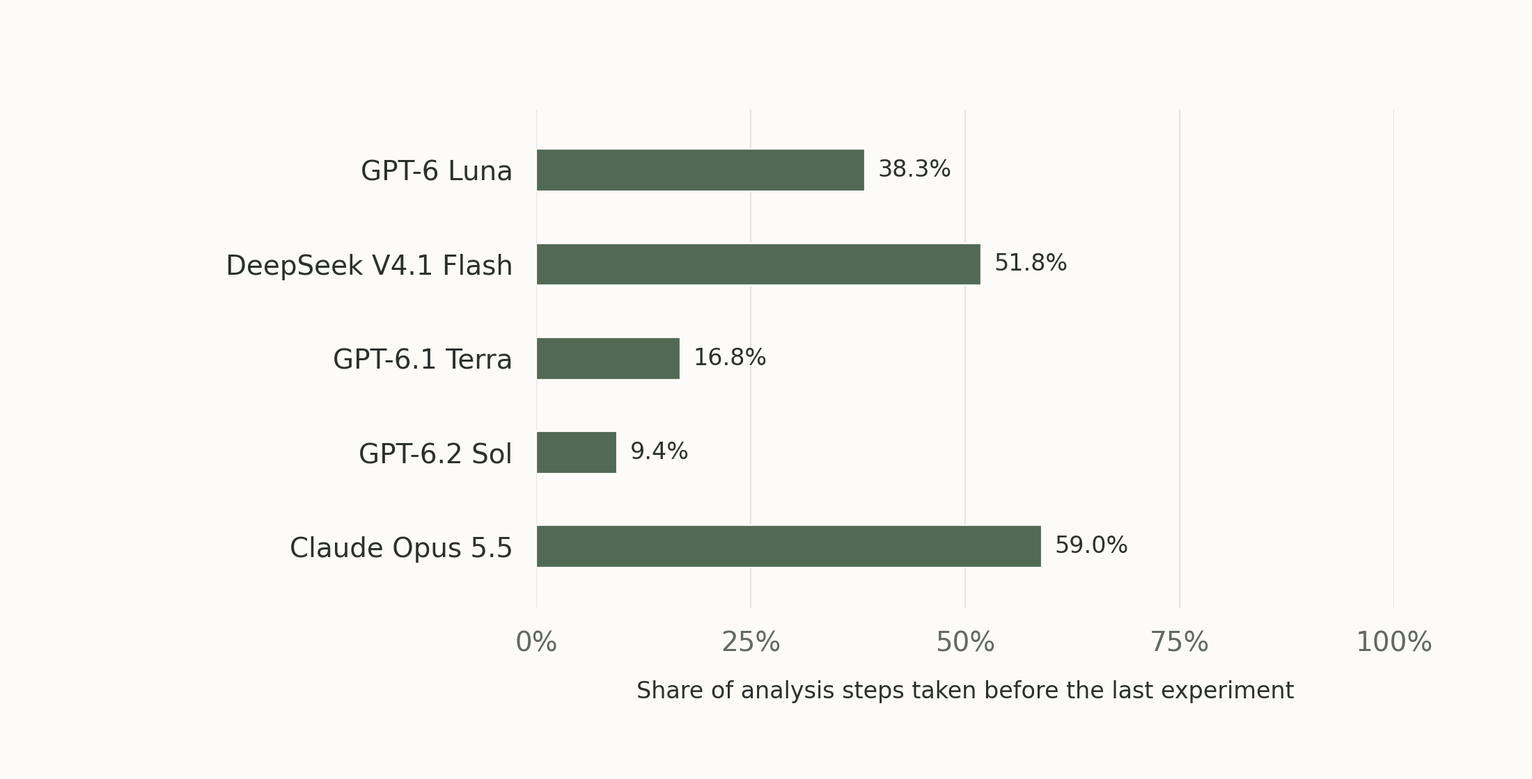
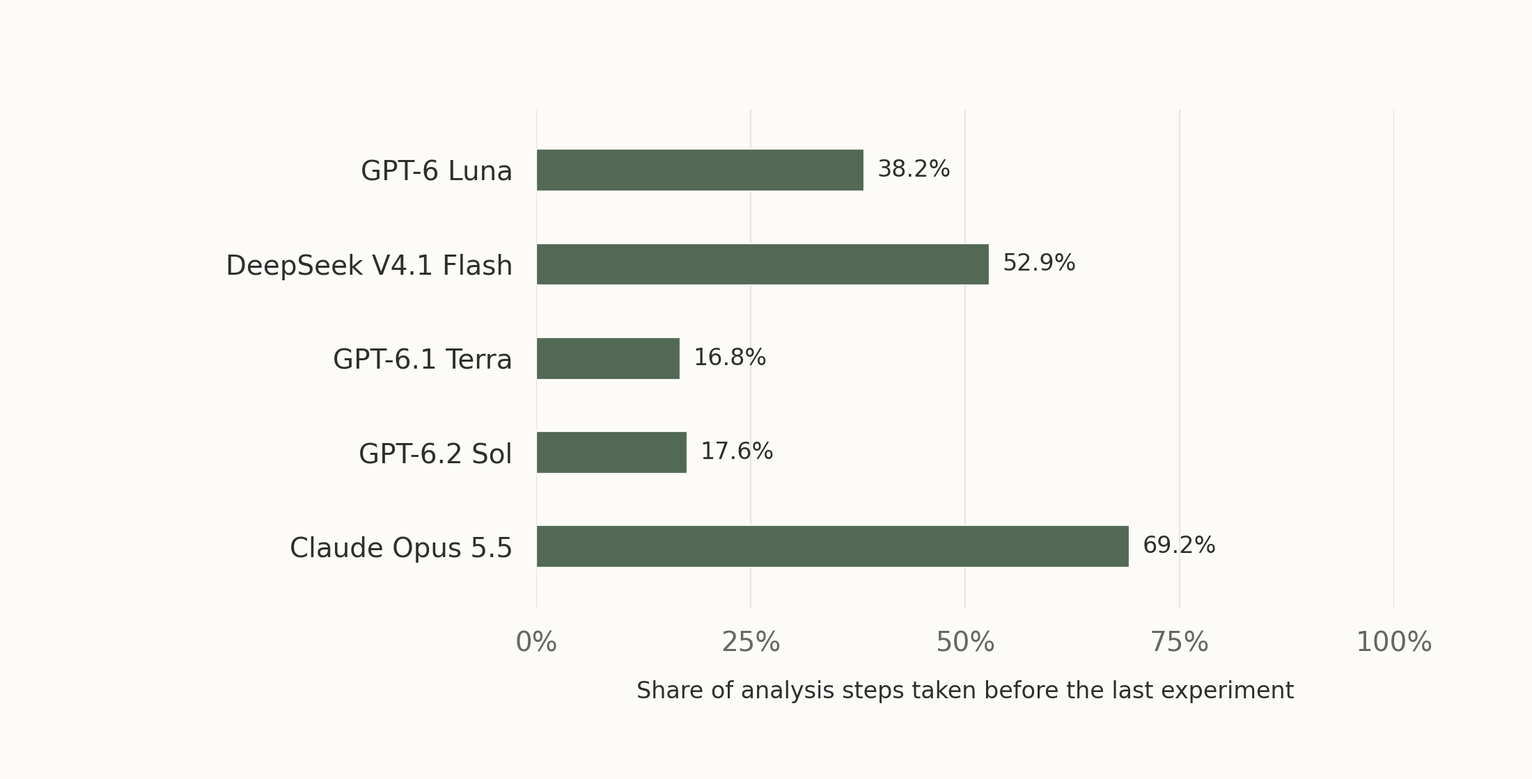
Correct the OpenQFT process figure
The first version counted an experiment only when the command was written
out, which missed experiments that GPT-6.2 Sol and Claude Opus 5.5 start
through their own scripts. Recounted: Sol 17.6% (was 9.4%), Opus 69.2%
(was 59.0%), DeepSeek 52.9% (was 51.8%). The text now says these models do
most, not nearly all, of their analysis after the last experiment.

diff --git a/projects/openqft/index.html b/projects/openqft/index.html
@@ -1,4 +1,4 @@
 <!doctype html>
 <html lang="en"><head><meta charset="utf-8"><meta name="viewport" content="width=device-width,initial-scale=1"><meta name="description" content="Some thoughts on scientific discovery, useful experience, and what it means for an agent to keep learning."><title>OpenQFT — Shuhan Wang</title><link rel="canonical" href="https://shuhan-wang1.github.io/projects/openqft/"><meta property="og:title" content="OpenQFT — Shuhan Wang"><meta property="og:description" content="Some thoughts on scientific discovery, useful experience, and what it means for an agent to keep learning."><link rel="icon" href="../../assets/favicon.svg" type="image/svg+xml"><link rel="stylesheet" href="../../styles.css"><link rel="stylesheet" href="../../project.css"><script src="../../project-data.js" defer></script><script src="../../project.js" defer></script></head>
 <body data-project-id="qft" class="research-blog"><a class="skip-link" href="#project-main" id="skip">Skip to content</a><header class="site-header"><div class="header-inner"><a class="wordmark" href="../../" aria-label="Shuhan Wang, home">sw<span class="wordmark-dot">.</span></a><a class="text-link" id="back-home" href="../../#research">All projects</a><button id="project-language" class="language-button" aria-label="Switch to Chinese">中文</button></div></header>
-<main id="project-main" class="project-document container"><header class="project-hero"><p class="eyebrow" id="page-kicker">OPENQFT / RESEARCH JOURNAL</p><h1 id="page-title">Learning to discover. Learning from discovery.</h1><p id="page-summary">Some thoughts on scientific discovery, useful experience, and what it means for an agent to keep learning.</p><div class="project-resources"></div></header><div class="project-layout"><aside><nav class="project-toc" aria-label="On this page"><span id="toc-label">On this page</span><a href="#section-0">What should an agent learn from discovery?</a><a href="#section-1">An intuition from the history of science</a><a href="#section-2">A snapshot across models</a><a href="#section-3">Collecting evidence is only part of the work</a><a href="#section-4">Models investigate in different ways</a><a href="#section-5">When experience helps—and when it gets in the way</a><a href="#section-6">The question I want to keep asking</a><a href="#section-7">A research note, while the work develops</a></nav></aside><article class="project-article"><div id="project-sections"><section id="section-0" class="project-section"><h2>What should an agent learn from discovery?</h2><div class="section-prose"><p>I keep coming back to two questions. Can an agent work out something unfamiliar by choosing its own experiments? And when it encounters a new problem, does the earlier investigation make it a better learner?</p><p>OpenQFT grew out of wanting to study these questions together. A successful investigation is interesting in its own right. I am even more interested in what survives it: a useful idea, a better question, or a habit of checking an explanation before trusting it.</p></div></section><section id="section-1" class="project-section"><h2>An intuition from the history of science</h2><div class="section-prose"><p>One inspiration is the history of particle physics. Observations arrived before a complete explanation. Researchers had to look for regularities, ask what those regularities implied, and decide which observation might change the picture. An explanation earned its value by helping them anticipate something they had not yet seen.</p><p>What interests me is this movement between evidence and explanation. Each discovery changes the questions that become worth asking. Experience can do more than supply another answer; it can change how the next investigation begins.</p></div></section><section id="section-2" class="project-section"><h2>A snapshot across models</h2><div class="section-prose"><p>The snapshot now covers five models: GPT-6 Luna (gpt-6-luna), DeepSeek V4.1 Flash (deepseek-flash), GPT-6.1 Terra (gpt-6.1-terra), GPT-6.2 Sol (gpt-6.2-sol) and Claude Opus 5.5 (claude-opus-5-5). All scores are expressed as a percentage of the theoretical maximum: a perfect score is 100%.</p><p>The initial evaluation is twice as large as in the earlier version of this note, and every model was evaluated on the same set, so these numbers replace the earlier ones. Complete and Partial describe study coverage, not task success. The experience study is complete for the first four models. Claude Opus 5.5 has initial-evaluation results only.</p><p>The table separates initial evaluation from the experience comparison. They use different evaluation subsets, so a change between these columns should not be read as an improvement over time. The averages also hide how much single investigations by one model differ. Claude Opus 5.5 has the highest average here, yet its lead over GPT-6.2 Sol is within that spread, and its own investigations fall into two groups: some reach much of the explanation and some reach little. These are descriptive snapshots, rather than a definitive ranking.</p></div></section><div class="results-table-wrap" tabindex="0" role="region" aria-label="Model results"><table class="model-results"><caption>Results snapshot · theoretical maximum = 100%</caption><thead><tr><th scope="col">Model</th><th scope="col">Study coverage</th><th scope="col">Initial evaluation</th><th scope="col">Without experience</th><th scope="col">With experience</th></tr></thead><tbody><tr><th scope="row">GPT-6 Luna<code>gpt-6-luna</code></th><td data-study-status="complete">Complete</td><td>1.0%</td><td>0.5%</td><td>1.4%</td></tr><tr><th scope="row">DeepSeek V4.1 Flash<code>deepseek-flash</code></th><td data-study-status="complete">Complete</td><td>12.4%</td><td>6.5%</td><td>10.0%</td></tr><tr><th scope="row">GPT-6.1 Terra<code>gpt-6.1-terra</code></th><td data-study-status="complete">Complete</td><td>26.5%</td><td>30.4%</td><td>37.9%</td></tr><tr><th scope="row">GPT-6.2 Sol<code>gpt-6.2-sol</code></th><td data-study-status="complete">Complete</td><td>31.3%</td><td>35.5%</td><td>51.6%</td></tr><tr><th scope="row">Claude Opus 5.5<code>claude-opus-5-5</code></th><td data-study-status="partial">Partial</td><td>44.5%</td><td data-score-missing>Not available</td><td data-score-missing>Not available</td></tr></tbody></table></div><figure class="blog-figure" data-blog-figure="0"><a class="figure-zoom" href="../../assets/openqft/model-discovery.png" target="_blank" rel="noopener noreferrer"><img src="../../assets/openqft/model-discovery.png" alt="Initial evaluation: GPT-6 Luna 1.0%, DeepSeek V4.1 Flash 12.4%, GPT-6.1 Terra 26.5%, GPT-6.2 Sol 31.3%, Claude Opus 5.5 44.5%. The theoretical maximum is 100%. Claude Opus 5.5 is marked Partial for overall study coverage." width="2200" height="1120" loading="lazy"></a><figcaption>Initial-evaluation means, as a percentage of the theoretical maximum (100%). All five models were evaluated on the same set. Complete/Partial denotes coverage of the broader study; the partial study uses a hatched bar. This snapshot does not establish a definitive model ranking.</figcaption></figure><section id="section-3" class="project-section"><h2>Collecting evidence is only part of the work</h2><div class="section-prose"><p>Choosing an experiment and making sense of its outcome are different abilities. An agent can collect observations while still missing a useful explanation. It can also settle on a plausible story too early and keep gathering evidence that fits it.</p><p>The comparison below places each model alongside a diagnostic reference analysis that works from that model&#x27;s own observations. The reference also receives additional information, so the gap does not isolate a reasoning deficit. Still, the pattern is the same for all five models: the observations a model collected would have supported much more than the model concluded from them. It is a prompt to ask which parts of an investigation need help, rather than a claim that every answer was already available to the agent.</p></div></section><figure class="blog-figure" data-blog-figure="1"><a class="figure-zoom" href="../../assets/openqft/model-evidence.png" target="_blank" rel="noopener noreferrer"><img src="../../assets/openqft/model-evidence.png" alt="Selected diagnostic measure, model against a reference analysis of the same observations with extra information: GPT-6 Luna 0.1% against 50.2%; DeepSeek V4.1 Flash 2.6% against 53.6%; GPT-6.1 Terra 8.9% against 63.2%; GPT-6.2 Sol 16.5% against 66.1%; Claude Opus 5.5 31.1% against 67.7%. The maximum is 100%." width="2200" height="1480" loading="lazy"></a><figcaption>Selected diagnostic measure for each model, with its maximum marked at 100%. The reference analyses the same observations the model collected and has additional information; this is not an equal-information baseline. This measure differs from the overall score in the other figures. Mechanism details remain private.</figcaption></figure><section id="section-4" class="project-section"><h2>Models investigate in different ways</h2><div class="section-prose"><p>The models also differ in how they work, apart from how well they score. One difference is when the thinking happens. GPT-6.2 Sol and GPT-6.1 Terra tend to run their experiments in a few large batches and do nearly all of their analysis after the last one, when nothing they work out can change what they try. Claude Opus 5.5 alternates: more than half of its analysis happens while it can still choose another experiment, and it varies the conditions of its experiments more widely.</p><p>The figure shows this as the share of analysis steps taken before the last experiment. A higher share is not a score: GPT-6 Luna and DeepSeek V4.1 Flash also analyse between experiments and score lowest, so alternating does not make an investigation succeed by itself. What I take from it is that the way an agent investigates can be measured alongside its result, and that an explanation worked out after the last experiment can no longer be tested by one.</p></div></section><figure class="blog-figure" data-blog-figure="2"><a class="figure-zoom" href="../../assets/openqft/model-process.png" target="_blank" rel="noopener noreferrer"><img src="../../assets/openqft/model-process.png" alt="Share of analysis steps taken before the last experiment: GPT-6 Luna 38.3%, DeepSeek V4.1 Flash 51.8%, GPT-6.1 Terra 16.8%, GPT-6.2 Sol 9.4%, Claude Opus 5.5 59.0%." width="2200" height="1120" loading="lazy"></a><figcaption>When the thinking happens: of the steps a model spends on analysis, the share taken before its last experiment, averaged over investigations that start with no earlier experience. This describes how a model works; it is not a score.</figcaption></figure><section id="section-5" class="project-section"><h2>When experience helps—and when it gets in the way</h2><div class="section-prose"><p>A later investigation need not begin from an empty page. In the comparison below, each model meets the same problems without and with notes from its own earlier investigations. The benefit grows with what a model can discover in the first place: GPT-6 Luna, which discovers little, gains little, and GPT-6.2 Sol gains the most.</p><p>What experience changes differs from model to model. With its notes, GPT-6.2 Sol runs different experiments: fewer of them, with the conditions varied more widely. GPT-6.1 Terra runs much the same experiments as before and changes what it concludes from them. In the cases I have so far, the notes also help with kinds of rule that the earlier investigations had not contained, which suggests that what carries over is mostly a way of working, more than a list of facts.</p><p>But useful memory needs judgement. A good explanation can guide a new experiment; an untested assumption can guide it in the wrong direction, and I see both. I want to understand how an agent can carry forward what it has learnt while staying willing to revise it. Claude Opus 5.5 has no experience comparison to show yet. These descriptive means do not imply that memory helps every investigation.</p></div></section><figure class="blog-figure" data-blog-figure="3"><a class="figure-zoom" href="../../assets/openqft/model-experience.png" target="_blank" rel="noopener noreferrer"><img src="../../assets/openqft/model-experience.png" alt="Without/with accumulated experience: GPT-6 Luna 0.5%/1.4%, DeepSeek V4.1 Flash 6.5%/10.0%, GPT-6.1 Terra 30.4%/37.9%, GPT-6.2 Sol 35.5%/51.6%. Perfect score is 100%. Claude Opus 5.5 has no experience comparison." width="2200" height="1280" loading="lazy"></a><figcaption>Experience comparison: descriptive means from matched comparisons on the same problems, with 100% marking the theoretical maximum. All four studies shown are complete. No Claude Opus 5.5 experience result is available. These means do not establish a universal memory benefit.</figcaption></figure><section id="section-6" class="project-section"><h2>The question I want to keep asking</h2><div class="section-prose"><p>For me, the exciting possibility is an agent whose experience improves the way it investigates. It notices when an explanation stops working, asks a more revealing question, and brings a useful idea to an unfamiliar problem.</p><p>That connects scientific discovery to continual learning: progress in one investigation becomes part of how the next one is approached. OpenQFT is where I am exploring that connection.</p></div></section><section id="section-7" class="project-section"><h2>A research note, while the work develops</h2><div class="section-prose"><p>This is an intuition-led preview of independent, unpublished research. Figures show selected descriptive means, with 100% marking the theoretical maximum for the measure in each figure. The diagnostic measure, the process measure and the overall evaluation score are different measures, and the process measure is not a score. Study coverage is marked explicitly. Experimental mechanisms and the full paper remain private while the work develops.</p></div></section></div><p class="project-updated" id="updated">Updated November 2026</p></article></div><nav class="related-projects" aria-label="Other projects"><h2 id="related-title">Explore other projects</h2><a href="../diagnosing-world-models/" data-related="wm">Diagnosing World Models</a><a href="../climb/" data-related="climb">CLIMB</a><a href="../temporal-routing/" data-related="temporal">Temporal Routing</a><a href="../swe-router/" data-related="swe">SWE-Router</a><a href="../ropeband/" data-related="rope">RopeBand</a><a href="../rentcompass/" data-related="rent">RentCompass</a></nav></main><footer class="site-footer container"><a href="../../">Shuhan Wang / 王书涵</a><a href="mailto:jackwsh@outlook.com">jackwsh@outlook.com</a></footer></body></html>
+<main id="project-main" class="project-document container"><header class="project-hero"><p class="eyebrow" id="page-kicker">OPENQFT / RESEARCH JOURNAL</p><h1 id="page-title">Learning to discover. Learning from discovery.</h1><p id="page-summary">Some thoughts on scientific discovery, useful experience, and what it means for an agent to keep learning.</p><div class="project-resources"></div></header><div class="project-layout"><aside><nav class="project-toc" aria-label="On this page"><span id="toc-label">On this page</span><a href="#section-0">What should an agent learn from discovery?</a><a href="#section-1">An intuition from the history of science</a><a href="#section-2">A snapshot across models</a><a href="#section-3">Collecting evidence is only part of the work</a><a href="#section-4">Models investigate in different ways</a><a href="#section-5">When experience helps—and when it gets in the way</a><a href="#section-6">The question I want to keep asking</a><a href="#section-7">A research note, while the work develops</a></nav></aside><article class="project-article"><div id="project-sections"><section id="section-0" class="project-section"><h2>What should an agent learn from discovery?</h2><div class="section-prose"><p>I keep coming back to two questions. Can an agent work out something unfamiliar by choosing its own experiments? And when it encounters a new problem, does the earlier investigation make it a better learner?</p><p>OpenQFT grew out of wanting to study these questions together. A successful investigation is interesting in its own right. I am even more interested in what survives it: a useful idea, a better question, or a habit of checking an explanation before trusting it.</p></div></section><section id="section-1" class="project-section"><h2>An intuition from the history of science</h2><div class="section-prose"><p>One inspiration is the history of particle physics. Observations arrived before a complete explanation. Researchers had to look for regularities, ask what those regularities implied, and decide which observation might change the picture. An explanation earned its value by helping them anticipate something they had not yet seen.</p><p>What interests me is this movement between evidence and explanation. Each discovery changes the questions that become worth asking. Experience can do more than supply another answer; it can change how the next investigation begins.</p></div></section><section id="section-2" class="project-section"><h2>A snapshot across models</h2><div class="section-prose"><p>The snapshot now covers five models: GPT-6 Luna (gpt-6-luna), DeepSeek V4.1 Flash (deepseek-flash), GPT-6.1 Terra (gpt-6.1-terra), GPT-6.2 Sol (gpt-6.2-sol) and Claude Opus 5.5 (claude-opus-5-5). All scores are expressed as a percentage of the theoretical maximum: a perfect score is 100%.</p><p>The initial evaluation is twice as large as in the earlier version of this note, and every model was evaluated on the same set, so these numbers replace the earlier ones. Complete and Partial describe study coverage, not task success. The experience study is complete for the first four models. Claude Opus 5.5 has initial-evaluation results only.</p><p>The table separates initial evaluation from the experience comparison. They use different evaluation subsets, so a change between these columns should not be read as an improvement over time. The averages also hide how much single investigations by one model differ. Claude Opus 5.5 has the highest average here, yet its lead over GPT-6.2 Sol is within that spread, and its own investigations fall into two groups: some reach much of the explanation and some reach little. These are descriptive snapshots, rather than a definitive ranking.</p></div></section><div class="results-table-wrap" tabindex="0" role="region" aria-label="Model results"><table class="model-results"><caption>Results snapshot · theoretical maximum = 100%</caption><thead><tr><th scope="col">Model</th><th scope="col">Study coverage</th><th scope="col">Initial evaluation</th><th scope="col">Without experience</th><th scope="col">With experience</th></tr></thead><tbody><tr><th scope="row">GPT-6 Luna<code>gpt-6-luna</code></th><td data-study-status="complete">Complete</td><td>1.0%</td><td>0.5%</td><td>1.4%</td></tr><tr><th scope="row">DeepSeek V4.1 Flash<code>deepseek-flash</code></th><td data-study-status="complete">Complete</td><td>12.4%</td><td>6.5%</td><td>10.0%</td></tr><tr><th scope="row">GPT-6.1 Terra<code>gpt-6.1-terra</code></th><td data-study-status="complete">Complete</td><td>26.5%</td><td>30.4%</td><td>37.9%</td></tr><tr><th scope="row">GPT-6.2 Sol<code>gpt-6.2-sol</code></th><td data-study-status="complete">Complete</td><td>31.3%</td><td>35.5%</td><td>51.6%</td></tr><tr><th scope="row">Claude Opus 5.5<code>claude-opus-5-5</code></th><td data-study-status="partial">Partial</td><td>44.5%</td><td data-score-missing>Not available</td><td data-score-missing>Not available</td></tr></tbody></table></div><figure class="blog-figure" data-blog-figure="0"><a class="figure-zoom" href="../../assets/openqft/model-discovery.png" target="_blank" rel="noopener noreferrer"><img src="../../assets/openqft/model-discovery.png" alt="Initial evaluation: GPT-6 Luna 1.0%, DeepSeek V4.1 Flash 12.4%, GPT-6.1 Terra 26.5%, GPT-6.2 Sol 31.3%, Claude Opus 5.5 44.5%. The theoretical maximum is 100%. Claude Opus 5.5 is marked Partial for overall study coverage." width="2200" height="1120" loading="lazy"></a><figcaption>Initial-evaluation means, as a percentage of the theoretical maximum (100%). All five models were evaluated on the same set. Complete/Partial denotes coverage of the broader study; the partial study uses a hatched bar. This snapshot does not establish a definitive model ranking.</figcaption></figure><section id="section-3" class="project-section"><h2>Collecting evidence is only part of the work</h2><div class="section-prose"><p>Choosing an experiment and making sense of its outcome are different abilities. An agent can collect observations while still missing a useful explanation. It can also settle on a plausible story too early and keep gathering evidence that fits it.</p><p>The comparison below places each model alongside a diagnostic reference analysis that works from that model&#x27;s own observations. The reference also receives additional information, so the gap does not isolate a reasoning deficit. Still, the pattern is the same for all five models: the observations a model collected would have supported much more than the model concluded from them. It is a prompt to ask which parts of an investigation need help, rather than a claim that every answer was already available to the agent.</p></div></section><figure class="blog-figure" data-blog-figure="1"><a class="figure-zoom" href="../../assets/openqft/model-evidence.png" target="_blank" rel="noopener noreferrer"><img src="../../assets/openqft/model-evidence.png" alt="Selected diagnostic measure, model against a reference analysis of the same observations with extra information: GPT-6 Luna 0.1% against 50.2%; DeepSeek V4.1 Flash 2.6% against 53.6%; GPT-6.1 Terra 8.9% against 63.2%; GPT-6.2 Sol 16.5% against 66.1%; Claude Opus 5.5 31.1% against 67.7%. The maximum is 100%." width="2200" height="1480" loading="lazy"></a><figcaption>Selected diagnostic measure for each model, with its maximum marked at 100%. The reference analyses the same observations the model collected and has additional information; this is not an equal-information baseline. This measure differs from the overall score in the other figures. Mechanism details remain private.</figcaption></figure><section id="section-4" class="project-section"><h2>Models investigate in different ways</h2><div class="section-prose"><p>The models also differ in how they work, apart from how well they score. One difference is when the thinking happens. GPT-6.2 Sol and GPT-6.1 Terra tend to run their experiments in a few large batches and do most of their analysis after the last one, when nothing they work out can change what they try. Claude Opus 5.5 alternates: more than half of its analysis happens while it can still choose another experiment, and it varies the conditions of its experiments more widely.</p><p>The figure shows this as the share of analysis steps taken before the last experiment. A higher share is not a score: GPT-6 Luna and DeepSeek V4.1 Flash also analyse between experiments and score lowest, so alternating does not make an investigation succeed by itself. What I take from it is that the way an agent investigates can be measured alongside its result, and that an explanation worked out after the last experiment can no longer be tested by one.</p></div></section><figure class="blog-figure" data-blog-figure="2"><a class="figure-zoom" href="../../assets/openqft/model-process.png" target="_blank" rel="noopener noreferrer"><img src="../../assets/openqft/model-process.png" alt="Share of analysis steps taken before the last experiment: GPT-6 Luna 38.2%, DeepSeek V4.1 Flash 52.9%, GPT-6.1 Terra 16.8%, GPT-6.2 Sol 17.6%, Claude Opus 5.5 69.2%." width="2200" height="1120" loading="lazy"></a><figcaption>When the thinking happens: of the steps a model spends on analysis, the share taken before its last experiment, averaged over investigations that start with no earlier experience. This describes how a model works; it is not a score.</figcaption></figure><section id="section-5" class="project-section"><h2>When experience helps—and when it gets in the way</h2><div class="section-prose"><p>A later investigation need not begin from an empty page. In the comparison below, each model meets the same problems without and with notes from its own earlier investigations. The benefit grows with what a model can discover in the first place: GPT-6 Luna, which discovers little, gains little, and GPT-6.2 Sol gains the most.</p><p>What experience changes differs from model to model. With its notes, GPT-6.2 Sol runs different experiments: fewer of them, with the conditions varied more widely. GPT-6.1 Terra runs much the same experiments as before and changes what it concludes from them. In the cases I have so far, the notes also help with kinds of rule that the earlier investigations had not contained, which suggests that what carries over is mostly a way of working, more than a list of facts.</p><p>But useful memory needs judgement. A good explanation can guide a new experiment; an untested assumption can guide it in the wrong direction, and I see both. I want to understand how an agent can carry forward what it has learnt while staying willing to revise it. Claude Opus 5.5 has no experience comparison to show yet. These descriptive means do not imply that memory helps every investigation.</p></div></section><figure class="blog-figure" data-blog-figure="3"><a class="figure-zoom" href="../../assets/openqft/model-experience.png" target="_blank" rel="noopener noreferrer"><img src="../../assets/openqft/model-experience.png" alt="Without/with accumulated experience: GPT-6 Luna 0.5%/1.4%, DeepSeek V4.1 Flash 6.5%/10.0%, GPT-6.1 Terra 30.4%/37.9%, GPT-6.2 Sol 35.5%/51.6%. Perfect score is 100%. Claude Opus 5.5 has no experience comparison." width="2200" height="1280" loading="lazy"></a><figcaption>Experience comparison: descriptive means from matched comparisons on the same problems, with 100% marking the theoretical maximum. All four studies shown are complete. No Claude Opus 5.5 experience result is available. These means do not establish a universal memory benefit.</figcaption></figure><section id="section-6" class="project-section"><h2>The question I want to keep asking</h2><div class="section-prose"><p>For me, the exciting possibility is an agent whose experience improves the way it investigates. It notices when an explanation stops working, asks a more revealing question, and brings a useful idea to an unfamiliar problem.</p><p>That connects scientific discovery to continual learning: progress in one investigation becomes part of how the next one is approached. OpenQFT is where I am exploring that connection.</p></div></section><section id="section-7" class="project-section"><h2>A research note, while the work develops</h2><div class="section-prose"><p>This is an intuition-led preview of independent, unpublished research. Figures show selected descriptive means, with 100% marking the theoretical maximum for the measure in each figure. The diagnostic measure, the process measure and the overall evaluation score are different measures, and the process measure is not a score. Study coverage is marked explicitly. Experimental mechanisms and the full paper remain private while the work develops.</p></div></section></div><p class="project-updated" id="updated">Updated November 2026</p></article></div><nav class="related-projects" aria-label="Other projects"><h2 id="related-title">Explore other projects</h2><a href="../diagnosing-world-models/" data-related="wm">Diagnosing World Models</a><a href="../climb/" data-related="climb">CLIMB</a><a href="../temporal-routing/" data-related="temporal">Temporal Routing</a><a href="../swe-router/" data-related="swe">SWE-Router</a><a href="../ropeband/" data-related="rope">RopeBand</a><a href="../rentcompass/" data-related="rent">RentCompass</a></nav></main><footer class="site-footer container"><a href="../../">Shuhan Wang / 王书涵</a><a href="mailto:jackwsh@outlook.com">jackwsh@outlook.com</a></footer></body></html>

diff --git a/project-data.js b/project-data.js
@@ -341,7 +341,7 @@ window.PROJECT_DATA = {
         ],
         [
           "Models investigate in different ways",
-          "The models also differ in how they work, apart from how well they score. One difference is when the thinking happens. GPT-6.2 Sol and GPT-6.1 Terra tend to run their experiments in a few large batches and do nearly all of their analysis after the last one, when nothing they work out can change what they try. Claude Opus 5.5 alternates: more than half of its analysis happens while it can still choose another experiment, and it varies the conditions of its experiments more widely.\n\nThe figure shows this as the share of analysis steps taken before the last experiment. A higher share is not a score: GPT-6 Luna and DeepSeek V4.1 Flash also analyse between experiments and score lowest, so alternating does not make an investigation succeed by itself. What I take from it is that the way an agent investigates can be measured alongside its result, and that an explanation worked out after the last experiment can no longer be tested by one."
+          "The models also differ in how they work, apart from how well they score. One difference is when the thinking happens. GPT-6.2 Sol and GPT-6.1 Terra tend to run their experiments in a few large batches and do most of their analysis after the last one, when nothing they work out can change what they try. Claude Opus 5.5 alternates: more than half of its analysis happens while it can still choose another experiment, and it varies the conditions of its experiments more widely.\n\nThe figure shows this as the share of analysis steps taken before the last experiment. A higher share is not a score: GPT-6 Luna and DeepSeek V4.1 Flash also analyse between experiments and score lowest, so alternating does not make an investigation succeed by itself. What I take from it is that the way an agent investigates can be measured alongside its result, and that an explanation worked out after the last experiment can no longer be tested by one."
         ],
         [
           "When experience helps—and when it gets in the way",
@@ -380,7 +380,7 @@ window.PROJECT_DATA = {
         ],
         [
           "模型的探索方式各不相同",
-          "除了分数高低，模型的工作方式也不一样。一个差别在于思考发生在什么时候。GPT-6.2 Sol 和 GPT-6.1 Terra 倾向于把实验分成几大批做完，几乎所有分析都放在最后一次实验之后，这时无论想明白什么，都已经无法改变要做的实验。Claude Opus 5.5 则是交替进行：它一半以上的分析发生在还能再选一个实验的时候，实验条件也变化得更多。\n\n下图用“最后一次实验之前完成的分析步骤占比”来表示这一点。占比高并不等于分数高：GPT-6 Luna 和 DeepSeek V4.1 Flash 同样会在实验之间做分析，分数却最低，可见光靠交替并不能让探索成功。我从中看到的是：智能体的探索方式可以和结果一起被测量；而在最后一次实验之后才想出的解释，已经没有实验可以检验它了。"
+          "除了分数高低，模型的工作方式也不一样。一个差别在于思考发生在什么时候。GPT-6.2 Sol 和 GPT-6.1 Terra 倾向于把实验分成几大批做完，大部分分析都放在最后一次实验之后，这时无论想明白什么，都已经无法改变要做的实验。Claude Opus 5.5 则是交替进行：它一半以上的分析发生在还能再选一个实验的时候，实验条件也变化得更多。\n\n下图用“最后一次实验之前完成的分析步骤占比”来表示这一点。占比高并不等于分数高：GPT-6 Luna 和 DeepSeek V4.1 Flash 同样会在实验之间做分析，分数却最低，可见光靠交替并不能让探索成功。我从中看到的是：智能体的探索方式可以和结果一起被测量；而在最后一次实验之后才想出的解释，已经没有实验可以检验它了。"
         ],
         [
           "经验何时有用，又何时会妨碍探索？",
@@ -478,11 +478,11 @@ window.PROJECT_DATA = {
         "width": 2200,
         "height": 1120,
         "en": {
-          "alt": "Share of analysis steps taken before the last experiment: GPT-6 Luna 38.3%, DeepSeek V4.1 Flash 51.8%, GPT-6.1 Terra 16.8%, GPT-6.2 Sol 9.4%, Claude Opus 5.5 59.0%.",
+          "alt": "Share of analysis steps taken before the last experiment: GPT-6 Luna 38.2%, DeepSeek V4.1 Flash 52.9%, GPT-6.1 Terra 16.8%, GPT-6.2 Sol 17.6%, Claude Opus 5.5 69.2%.",
           "caption": "When the thinking happens: of the steps a model spends on analysis, the share taken before its last experiment, averaged over investigations that start with no earlier experience. This describes how a model works; it is not a score."
         },
         "zh": {
-          "alt": "最后一次实验之前完成的分析步骤占比：GPT-6 Luna 38.3%、DeepSeek V4.1 Flash 51.8%、GPT-6.1 Terra 16.8%、GPT-6.2 Sol 9.4%、Claude Opus 5.5 59.0%。",
+          "alt": "最后一次实验之前完成的分析步骤占比：GPT-6 Luna 38.2%、DeepSeek V4.1 Flash 52.9%、GPT-6.1 Terra 16.8%、GPT-6.2 Sol 17.6%、Claude Opus 5.5 69.2%。",
           "caption": "思考发生在什么时候：在模型用于分析的步骤中，发生在最后一次实验之前的占比，对没有先前经验的探索取平均。它描述的是模型的工作方式，不是分数。"
         }
       },
